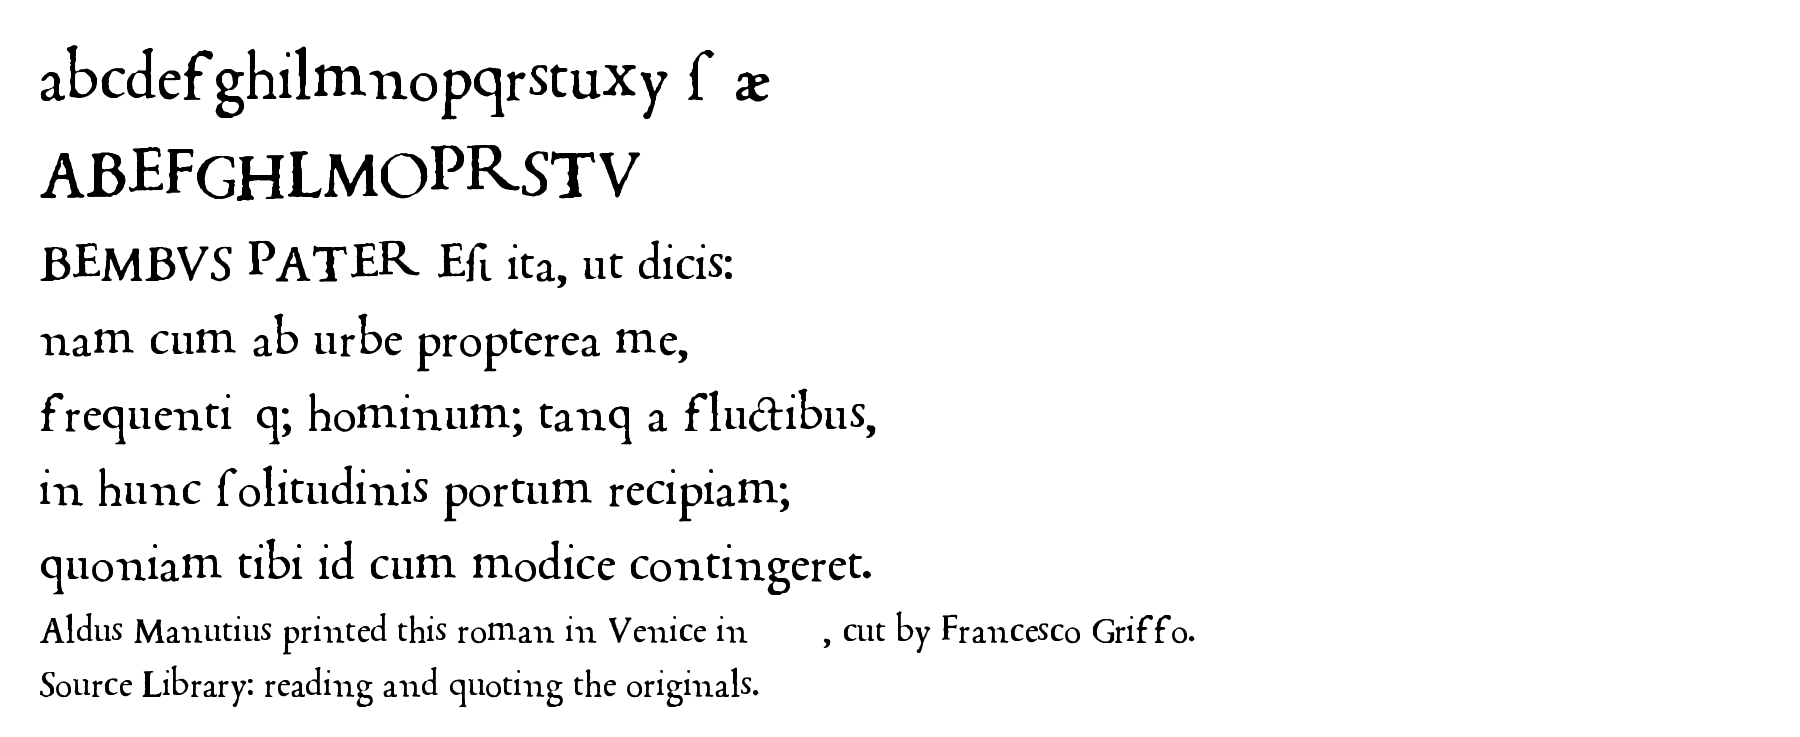
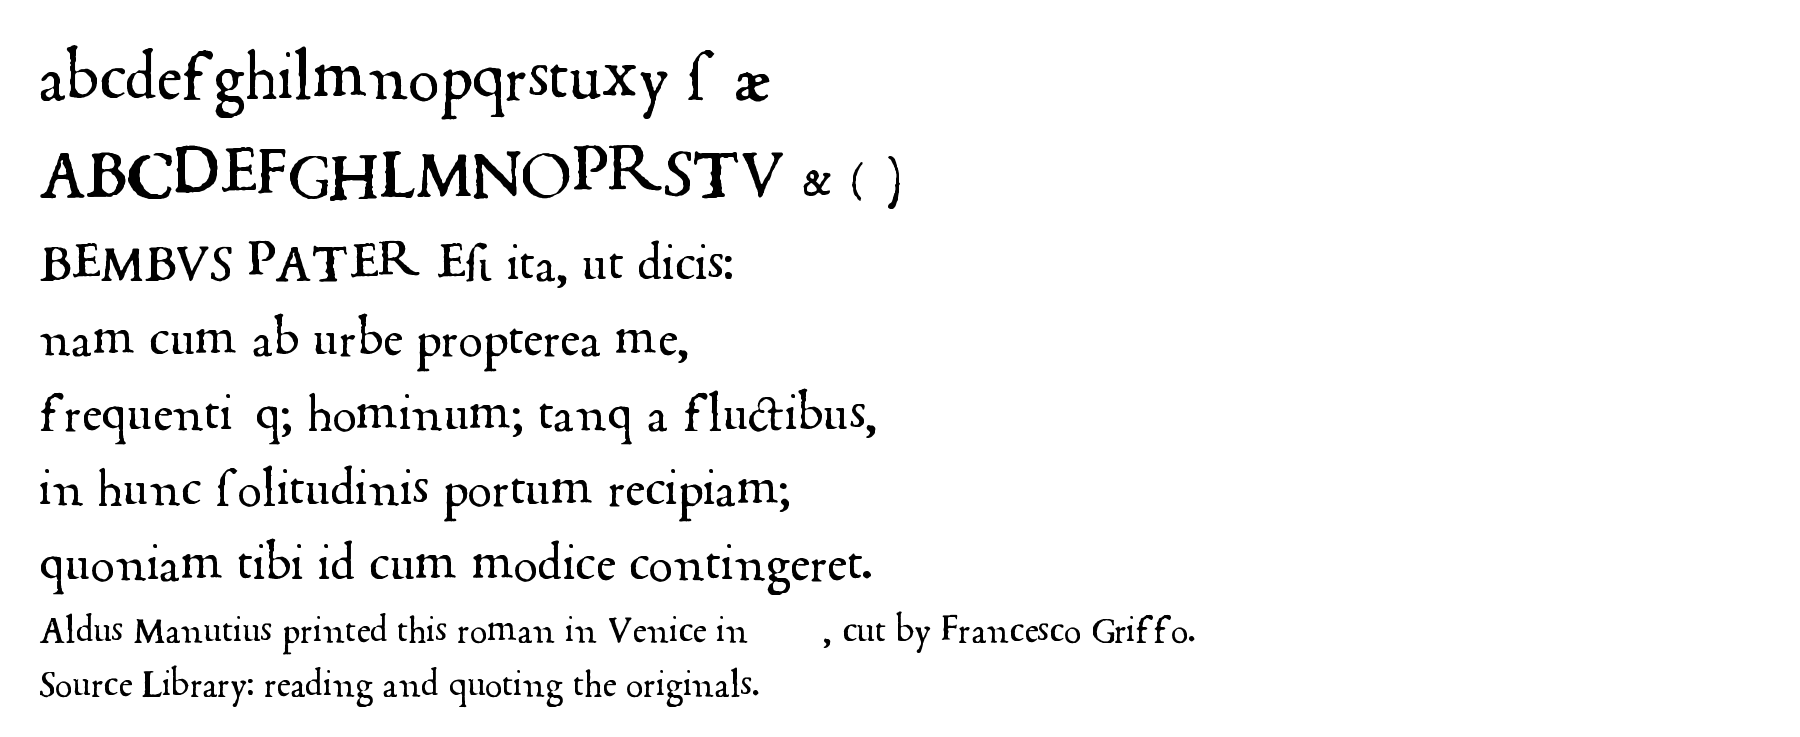
feat(fonts): Aldine Aetna v0.2 — &, (, Qu from the 1497 Aldines in the same fount
Third glyph set from 30 full-res pages of Leoniceno and Maiolo (1497), set in
the same Griffo roman as De Aetna. Adds ampersand, opening parenthesis and the
Qu ligature (Griffo cast Q only fused with u). Segmenter fixes: split merged
lines in tightly-leaded pages, and only merge components that are vertically
close (stops punctuation from the next line gluing onto letters); NOCLUSTER
mode for capital-hunting on large sets. 59 glyphs.

J U W did not exist in 1490s roman type; I K X Y Z and digits are not on the
48 pages read so far.

Changed region(s): [[0.0622, 0.1872, 0.4978, 0.2809]]

diff --git a/src/app/specimen/aldine/page.tsx b/src/app/specimen/aldine/page.tsx
@@ -24,8 +24,8 @@ const PASSAGE = [
 ];
 
 const LOWER = 'a b c d e f g h i l m n o p q r s t u x y ſ æ';
-const UPPER = 'A B C D E F G H L M N O P R S T V';
-const LIGS = 'ct ſt ſi ſſ ſſi fi ff';
+const UPPER = 'A B C D E F G H L M N O P R S T V Qu & ( )';
+const LIGS = 'ct ſt ſi ſſ ſſi fi ff Qu';
 
 export default function AldineSpecimenPage() {
   return (
@@ -53,7 +53,7 @@ export default function AldineSpecimenPage() {
         <h2 className="text-2xl md:text-3xl text-primary mt-12 mb-2">Aldine Aetna — the facsimile</h2>
         <p className="text-secondary mb-6 leading-relaxed">
           Each glyph is one real impression from the book, chosen as the most typical of its
-          kind among some 12,000 printed letters on eighteen pages, then vectorised. Ink spread,
+          kind among some 60,000 printed letters on forty-eight pages of De Aetna and the 1497 Aldines set in the same fount, then vectorised. Ink spread,
           worn corners and the slight unevenness of hand-set metal are kept on purpose. This is
           what the 1496 reader saw.
         </p>
@@ -120,9 +120,11 @@ export default function AldineSpecimenPage() {
         <p className="text-secondary mb-4 leading-relaxed">
           Only what the 1496 text uses. The lowercase is complete for Latin as Aldus set it
           (<span style={{ fontFamily: aldineStack }}>u</span> serves for v, long <span style={{ fontFamily: aldineStack }}>ſ</span> inside
-          words), with the ligatures <span style={{ fontFamily: aldineStack, fontFeatureSettings: '"liga" 1' }}>ct ſt ſi ſſ fi ff</span> and æ.
-          Seventeen capitals were found on the pages read so far; I, J, K, Q, U, W, Y, Z, the
-          letters j k v w z and all digits are absent, so in a web stack Cardo fills them in.
+          words), with the ligatures <span style={{ fontFamily: aldineStack, fontFeatureSettings: '"liga" 1' }}>ct ſt ſi ſſ fi ff</span>, æ and
+          the ampersand. Seventeen capitals plus Q — which Griffo only ever cast fused with its u,
+          so here too <span style={{ fontFamily: aldineStack, fontFeatureSettings: '"liga" 1' }}>Qu</span> is one sort.
+          J, U and W did not exist in 1490s roman type; I, K, X, Y, Z and all digits are not on the
+          pages read so far. In a web stack Cardo fills them in.
           Letter spacing is measured from the page too: one em is the book&apos;s line pitch, and
           sidebearings are half the median gap between neighbouring sorts.
         </p>

diff --git a/scripts/fonts/aldine-aetna/segment.py b/scripts/fonts/aldine-aetna/segment.py
@@ -63,6 +63,21 @@ for path in sorted(glob.glob(os.environ.get('GLOB','ia*.jpg'))):
             if j - i > 40: lines.append((i, j))
             i = j
         else: i += 1
+    if lines:
+        import statistics as _st
+        medh = _st.median([b - a for a, b in lines])
+        split = []
+        for a, b in lines:
+            k = max(1, round((b - a) / medh))
+            if k == 1: split.append((a, b)); continue
+            # split at the k-1 lowest-ink rows near the expected boundaries
+            cuts = [a]
+            for q in range(1, k):
+                c0 = a + int((b - a) * q / k); lo, hi = max(a + 20, c0 - 25), min(b - 20, c0 + 25)
+                cuts.append(lo + int(np.argmin(rs[lo:hi])))
+            cuts.append(b)
+            split += list(zip(cuts, cuts[1:]))
+        lines = split
     print(page, 'lines', len(lines), 'col', cx0, cx1, file=sys.stderr)
     lab_all, n_all = ndimage.label(ink_col)
     objs = ndimage.find_objects(lab_all)
@@ -86,7 +101,8 @@ for path in sorted(glob.glob(os.environ.get('GLOB','ia*.jpg'))):
             if merged:
                 m = merged[-1]
                 ov = min(m[3], c[3]) - max(m[2], c[2])
-                if ov > 0.5 * min(m[3] - m[2], c[3] - c[2]):
+                vgap = max(m[0], c[0]) - min(m[1], c[1])
+                if ov > 0.5 * min(m[3] - m[2], c[3] - c[2]) and vgap < 22:
                     merged[-1] = (min(m[0], c[0]), max(m[1], c[1]), min(m[2], c[2]), max(m[3], c[3]), m[4] + [c[4]])
                     continue
             merged.append((c[0], c[1], c[2], c[3], [c[4]]))
@@ -114,8 +130,11 @@ for g in glyphs:
     aspect = w / h
     feats.append(np.concatenate([f, [asc * 6, desc * 6, aspect * 6]]))
 X = np.array(feats)
-Z = linkage(X, 'average', metric='euclidean')
-labels = fcluster(Z, t=float(sys.argv[1]) if len(sys.argv) > 1 else 5.0, criterion='distance')
+if os.environ.get('NOCLUSTER'):
+    labels = np.arange(1, len(X) + 1)
+else:
+    Z = linkage(X, 'average', metric='euclidean')
+    labels = fcluster(Z, t=float(sys.argv[1]) if len(sys.argv) > 1 else 5.0, criterion='distance')
 print('clusters', labels.max(), file=sys.stderr)
 
 # medoid per cluster + counts
@@ -127,13 +146,15 @@ meta = []
 for l in order:
     idx = clusters[l]
     sub = X[idx]
-    d = ((sub[:, None, :] - sub[None, :, :]) ** 2).sum(-1).sum(1)
-    med = idx[int(np.argmin(d))]
+    if len(idx) == 1: med = idx[0]
+    else:
+        d = ((sub[:, None, :] - sub[None, :, :]) ** 2).sum(-1).sum(1)
+        med = idx[int(np.argmin(d))]
     meta.append(dict(cluster=l, medoid=med, members=idx, n=len(idx)))
 
 # contact sheets: cell 64px glyph + label number
 cell = 72; per_row = 16
-chunks = [meta[i:i + 160] for i in range(0, len(meta), 160)]
+chunks = [] if os.environ.get('NOCLUSTER') else [meta[i:i + 160] for i in range(0, len(meta), 160)]
 for si, chunk in enumerate(chunks):
     rows = (len(chunk) + per_row - 1) // per_row
     sheet = Image.new('L', (per_row * cell, rows * (cell + 18)), 255)

diff --git a/scripts/fonts/aldine-aetna/build_font.py b/scripts/fonts/aldine-aetna/build_font.py
@@ -27,6 +27,9 @@ SETS = {'': (masks, meta, clusters)}
 if os.path.exists('x_glyphs.npz'):
     xd = np.load('x_glyphs.npz', allow_pickle=True)
     SETS['x'] = (xd['masks'], xd['meta'], json.load(open('x_clusters.json')))
+if os.path.exists('y_glyphs.npz'):
+    yd = np.load('y_glyphs.npz', allow_pickle=True)
+    SETS['y'] = (yd['masks'], yd['meta'], json.load(open('y_clusters.json')))
 def resolve(ref):
     # ref: int (main set) or 'x:123'
     # 'x:123' = cluster 123 of set x ; 'x#456' = glyph index 456 of set x directly
@@ -89,6 +92,7 @@ glyphs, advances, cmap = {}, {}, {}
 pen = TTGlyphPen(None); glyphs['.notdef'] = pen.glyph(); advances['.notdef'] = int(XH * S)
 pen = TTGlyphPen(None); glyphs['space'] = pen.glyph(); advances['space'] = int(GAP * S * 2.2 + XH * S * 0.4); cmap[0x20] = 'space'
 
+STRIP_SATELLITES = {'&', '(', ')', 'D'}
 chosen = {}
 for ch, cl in labels.items():
     if not cl: print('no cluster for', ch, file=sys.stderr); continue
@@ -96,6 +100,11 @@ for ch, cl in labels.items():
     idx = clusters_[ci]['medoid'] if kind == 'cluster' else ci
     nn = clusters_[ci]['n'] if kind == 'cluster' else 1
     mask = masks_[idx].astype(np.uint8); g = meta_[idx]
+    if ch in STRIP_SATELLITES:   # keep only the largest connected component (drops specks glued on by the merge step)
+        from scipy import ndimage as _nd
+        lab, n = _nd.label(mask)
+        if n > 1:
+            sizes = _nd.sum(mask, lab, range(1, n + 1)); mask = (lab == (1 + int(np.argmax(sizes)))).astype(np.uint8)
     svgtxt, (tx, ty, sx, sy), pad = trace(mask)
     # svg user coords -> pixel (of upscaled canvas): px = X*sx + tx ; py = Y*sy + ty   (sy negative)
     # pixel (canvas) -> original pixel: /UPSCALE, minus pad
@@ -138,7 +147,7 @@ fb.setupDummyDSIG() if hasattr(fb, 'setupDummyDSIG') else None
 
 # ligatures
 lig_rules = []
-for ch, n in [('fi', 'f_i'), ('ct', 'c_t'), ('ſt', 'longs_t'), ('ſi', 'longs_i'), ('ſſ', 'longs_longs'), ('ſſi', 'longs_longs_i'), ('ta','t_a'), ('tu','t_u')]:
+for ch, n in [('fi', 'f_i'), ('ct', 'c_t'), ('ſt', 'longs_t'), ('ſi', 'longs_i'), ('ſſ', 'longs_longs'), ('ſſi', 'longs_longs_i'), ('ta','t_a'), ('tu','t_u'), ('Qu','Q_u')]:
     if n in glyphs and all(glyphname(c) in glyphs for c in ch):
         comps = ' '.join(glyphname(c) for c in ch)
         lig_rules.append((len(ch), f'    sub {comps} by {n};'))

diff --git a/scripts/fonts/aldine-aetna/capsheet.py b/scripts/fonts/aldine-aetna/capsheet.py
@@ -13,8 +13,11 @@ else:
     for ci, c in enumerate(clusters):
         g = meta[c['medoid']]; h = g['y1'] - g['y0']; asc = g['base'] - g['y0']; desc = g['y1'] - g['base']
         w = g['x1'] - g['x0']
+        if os.environ.get('BOX') and (90 <= h <= 130 and int(os.environ.get('WMIN','70')) <= w <= 140): items.append((f'{ci}:{c["n"]}', c['medoid'])); continue
+        if os.environ.get('BOX'): continue
         if asc >= 88 and desc <= 22 and 28 <= w < 50 and int(os.environ.get("NARROW","0")) or (not int(os.environ.get("NARROW","0")) and asc >= 88 and desc <= 22 and w >= 50): items.append((f'{ci}:{c["n"]}', c['medoid']))
 cell = 100; per = 14; sc = 0.6
+items = items[int(os.environ.get('SKIP','0')):int(os.environ.get('SKIP','0'))+int(os.environ.get('LIMIT','100000'))]
 rows = (len(items) + per - 1) // per
 sheet = Image.new('L', (per * cell, max(1, rows) * (cell + 16)), 255); d = ImageDraw.Draw(sheet)
 for k, (lab, idx) in enumerate(items):

diff --git a/scripts/fonts/aldine-aetna/context.py b/scripts/fonts/aldine-aetna/context.py
@@ -14,6 +14,8 @@ for a in args:
     if p not in pages:
         f = p + '.jpg'
         if not os.path.exists(f): f = 'extra/' + f
+        if not os.path.exists(f): f = 'y/' + p[3:] + '.jpg' if p.startswith('ia_') else f
+        if not os.path.exists(f): f = 'y/' + p + '.jpg'
         pages[p] = Image.open(f).convert('L')
     im = pages[p]
     X0 = g['offx'] + g['x0']; X1 = g['offx'] + g['x1']; Y0 = g['offy'] + g['y0']; Y1 = g['offy'] + g['y1']

diff --git a/scripts/fonts/aldine-aetna/specimen.py b/scripts/fonts/aldine-aetna/specimen.py
@@ -4,7 +4,7 @@ os.chdir(os.path.dirname(os.path.abspath(__file__)))
 ttf = sys.argv[1]; out = sys.argv[2]
 lines = [
  (72, "abcdefghilmnopqrstuxy ſ æ"),
- (72, "ABEFGHLMOPRSTV"),
+ (72, "ABCDEFGHLMNOPRSTV & ( )"),
  (56, "BEMBVS PATER Eſt ita, ut dicis:"),
  (56, "nam cum ab urbe propterea me,"),
  (56, "frequentiáq; hominum; tanq a fluctibus,"),

diff --git a/scripts/fonts/aldine-aetna/README.md b/scripts/fonts/aldine-aetna/README.md
@@ -50,12 +50,19 @@ Python 3 with numpy, scipy, Pillow, fontTools, brotli; `potrace` on PATH
    (no shaping engine, so ligatures don't fire there; they do in browsers).
    woff2: `TTFont(...).flavor='woff2'; save()`.
 
-## Coverage (v0.1)
+## Coverage (v0.2)
 
-56 glyphs: a–y minus j k v w z (Aldus sets u for v), ſ, æ, the ligatures
-ct ſt ſi ſſ ſſi fi ff, capitals A B C D E F G H L M N O P R S T V, and . , : ; - ) ?.
-Absent because the 1496 text doesn't use them on the pages read: I J K Q U W X Y Z,
-digits, `(` (only a broken impression was found), Q (found only fused as "Qu").
+59 glyphs: a–y minus j k v w z (Aldus sets u for v), ſ, æ, &, the ligatures
+ct ſt ſi ſſ ſſi fi ff and Qu (Griffo's Q exists only fused with u — the tail runs under
+it — so `Q u` → `Q_u` via `liga` and there is no lone Q), capitals
+A B C D E F G H L M N O P R S T V, and . , : ; - ( ) ?.
+Third glyph set `y_` = 30 pages of the 1497 Aldines in the same fount
+(`fetch_1497.sh`: IA 690/691/692 = Leoniceno, Maiolo ×2), segmented with
+`NOCLUSTER=1` (52k glyphs; average-linkage on that many is O(n²) and unnecessary
+when you are hunting a handful of capitals — `BOX=1 WMIN=25 capsheet.py` pages
+through every cap-height glyph instead).
+Absent: J U W (did not exist in 1490s roman type), I K X Y Z and digits (not on
+the 48 pages read; try Poliziano 1498 `A335128` for Greek-derived names).
 `src/lib/fonts/aldine.ts` stacks Cardo behind it for everything missing.
 
 To extend: fetch more pages (the 1501 Virgil would give the first italic), run
